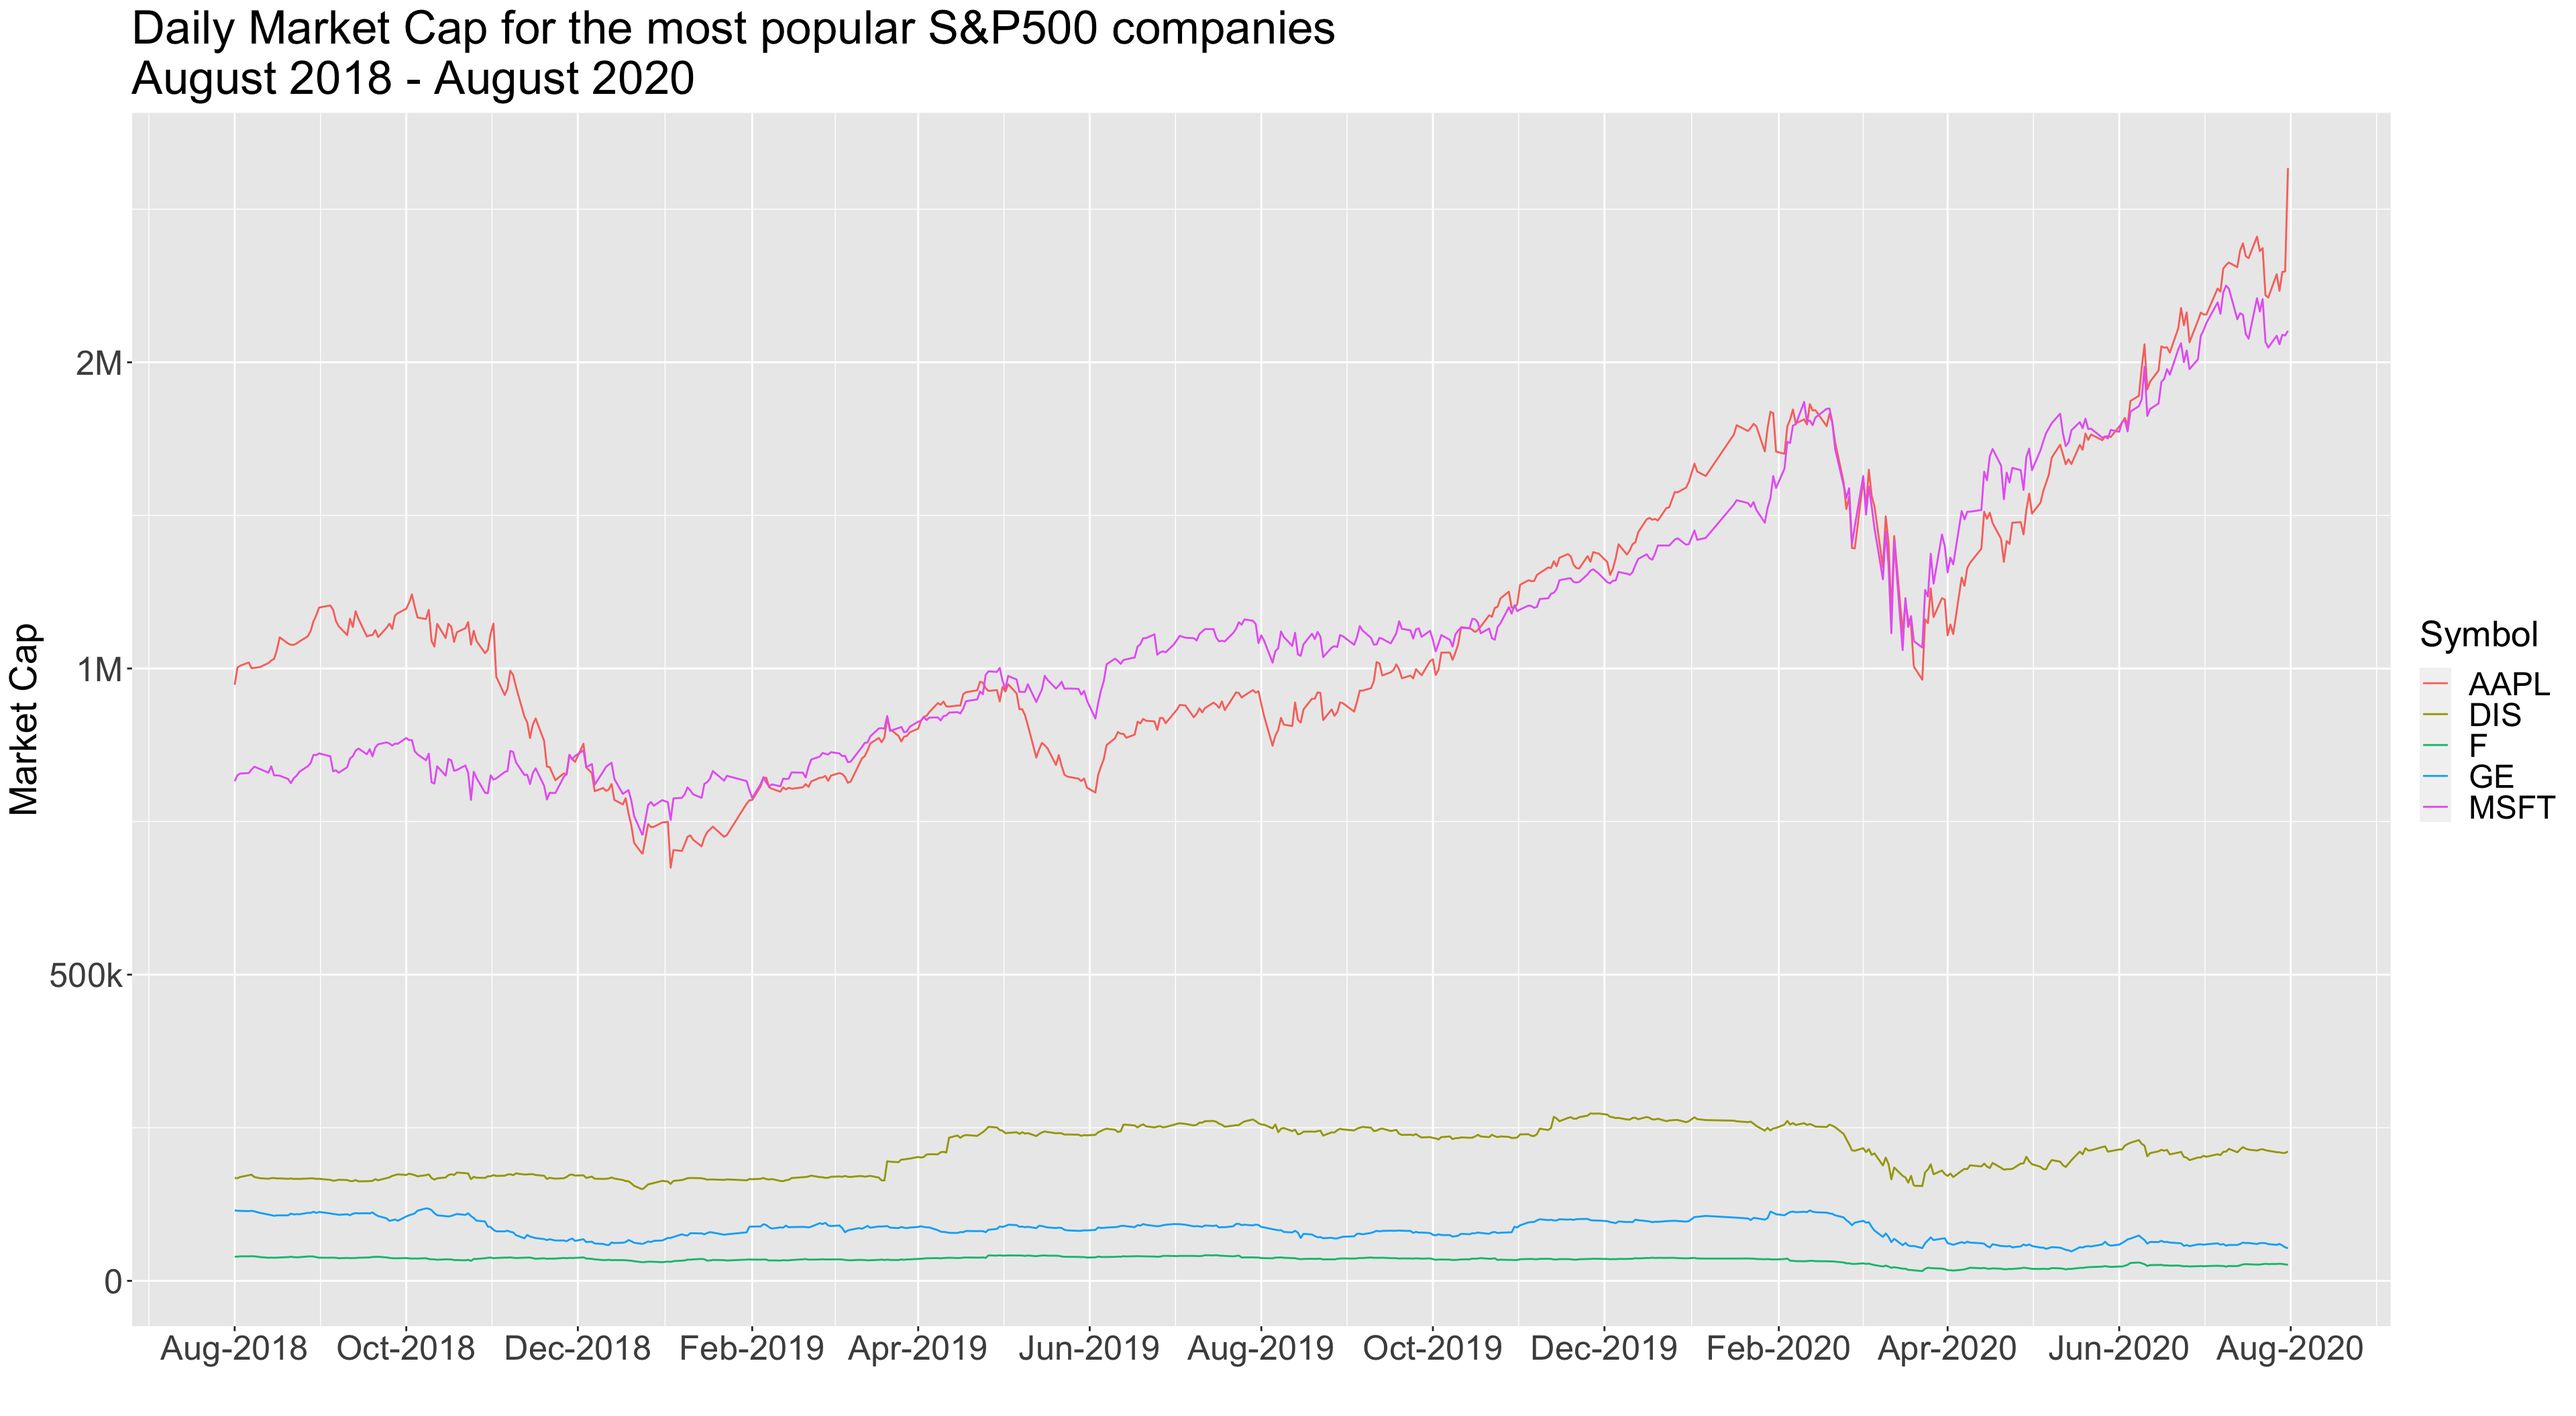
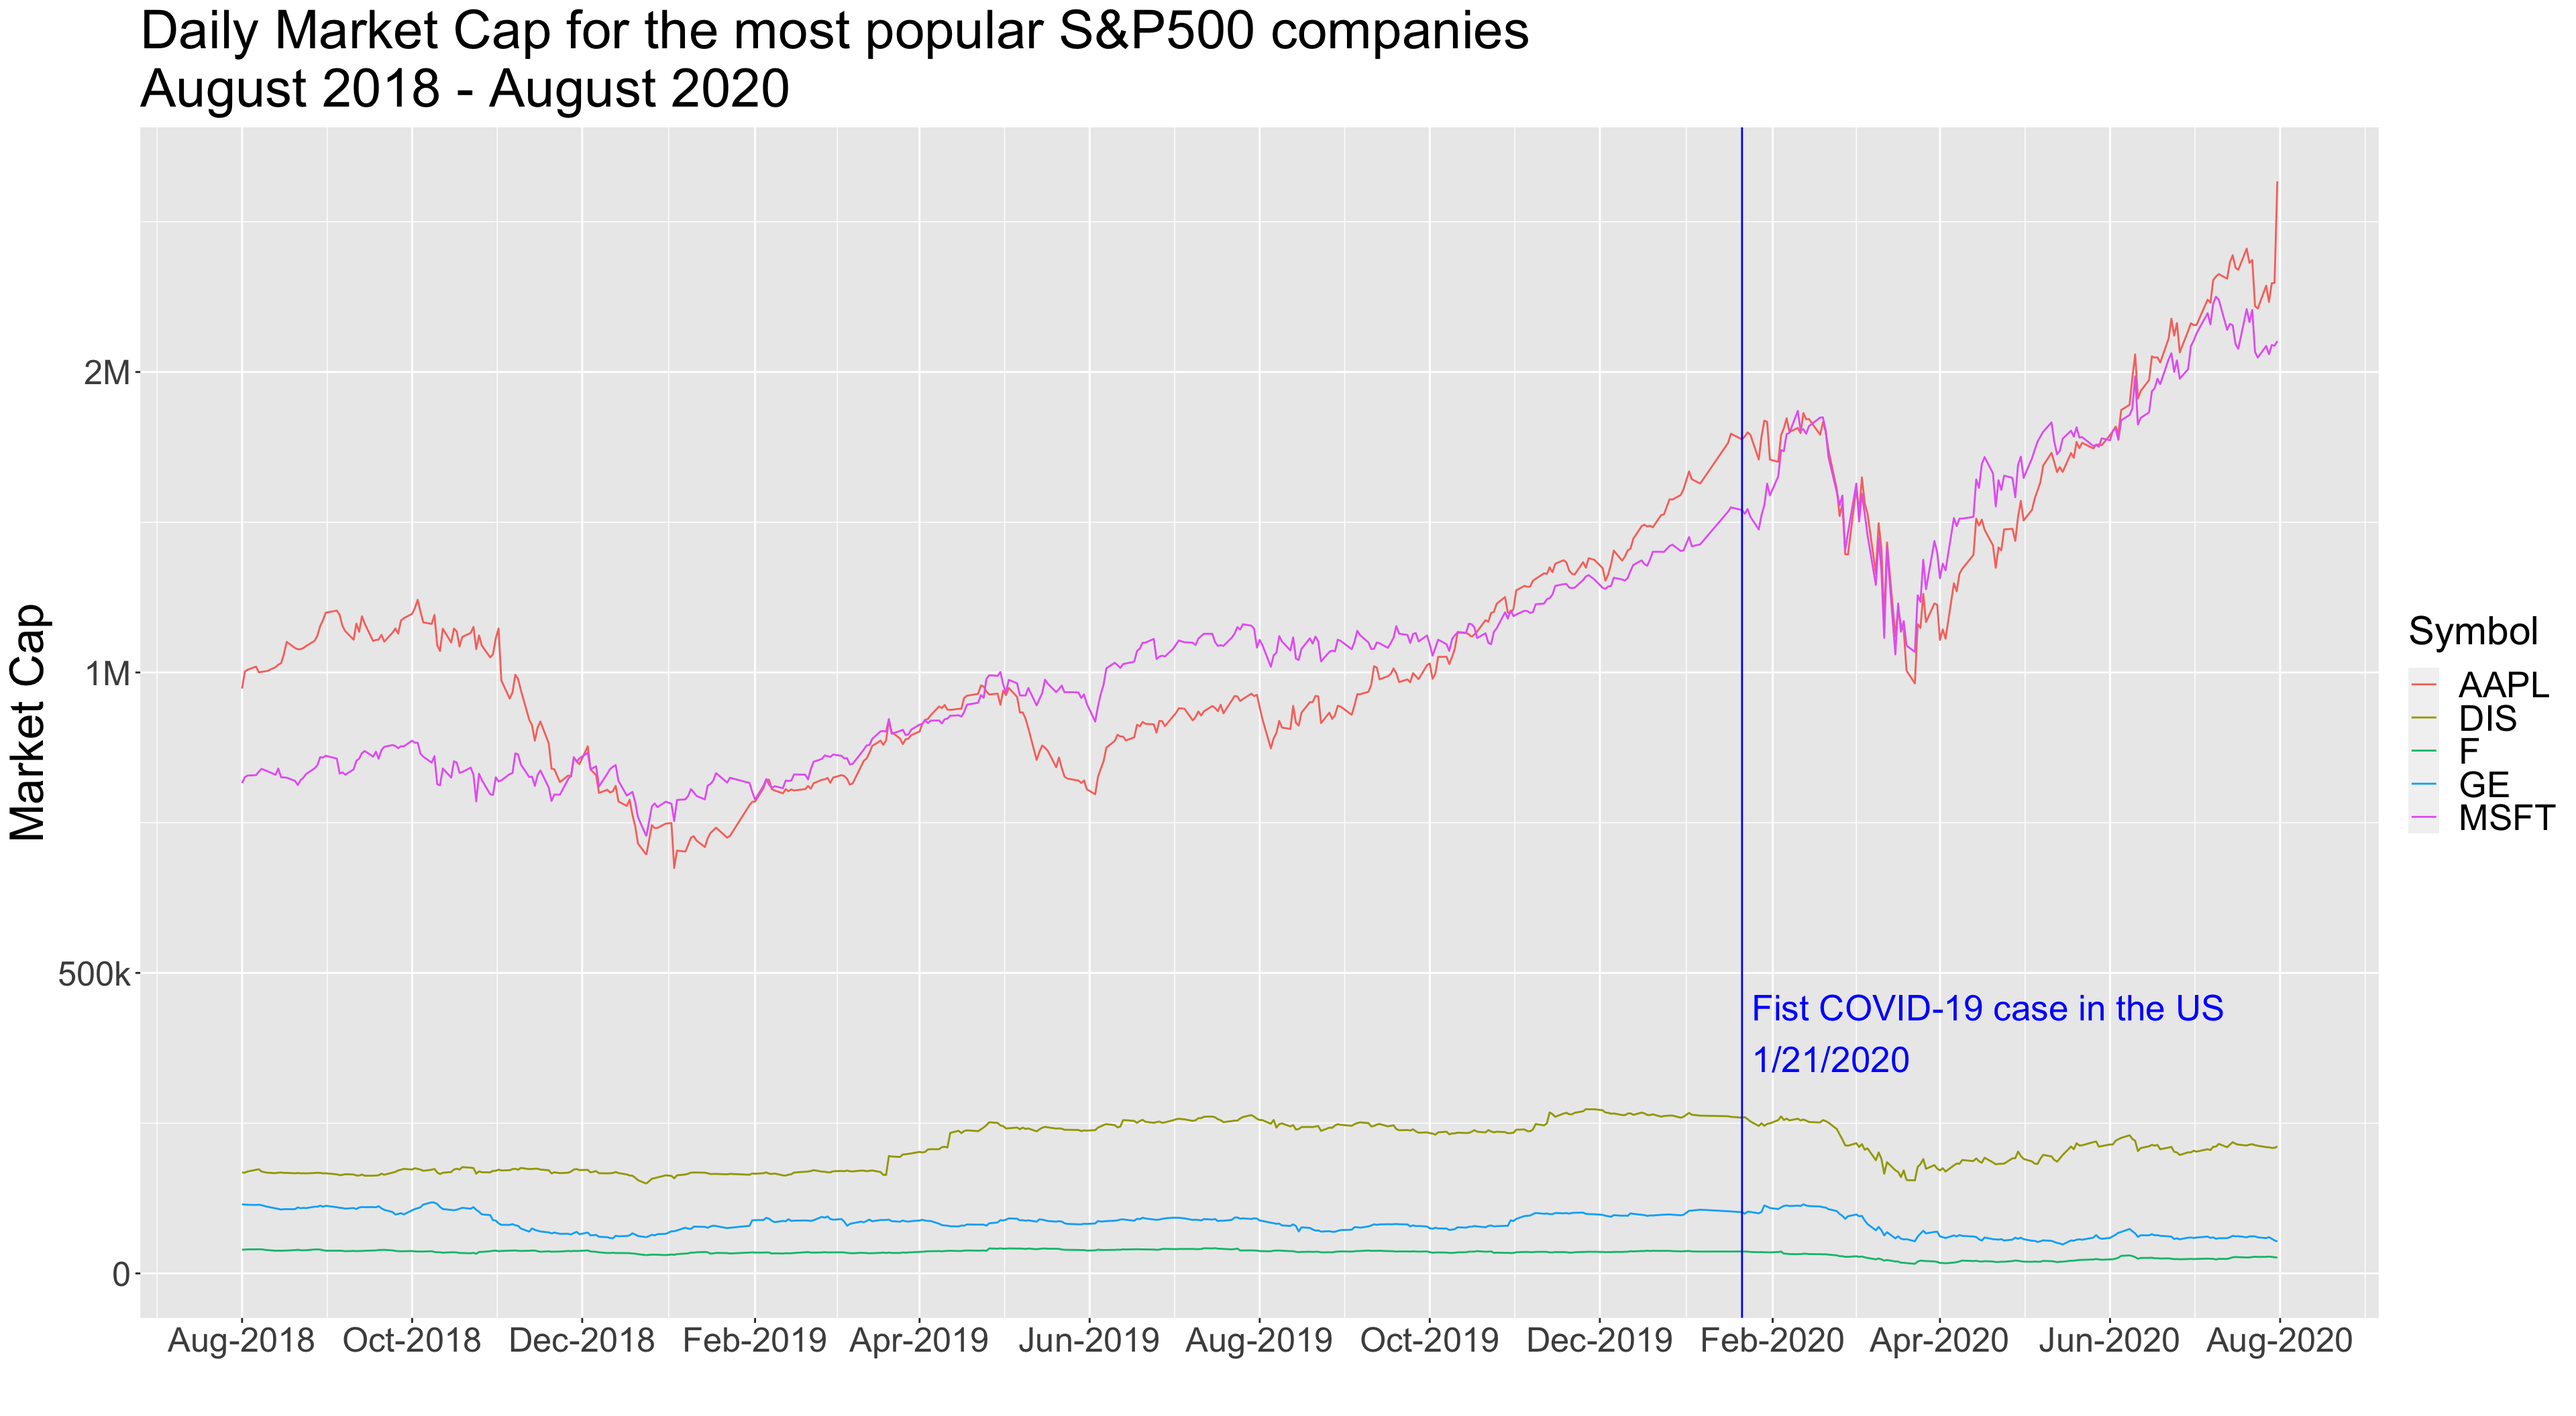
added annotation to ts graphs

diff --git a/docs/results.html b/docs/results.html
@@ -24,7 +24,7 @@
 <meta name="author" content="Jingwen Du, Kassiani Papasotiriou" />
 
 
-<meta name="date" content="2020-12-09" />
+<meta name="date" content="2020-12-10" />
 
   <meta name="viewport" content="width=device-width, initial-scale=1" />
   <meta name="apple-mobile-web-app-capable" content="yes" />
